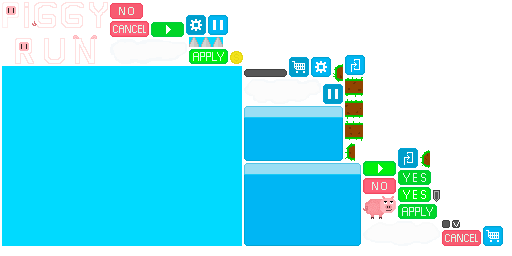
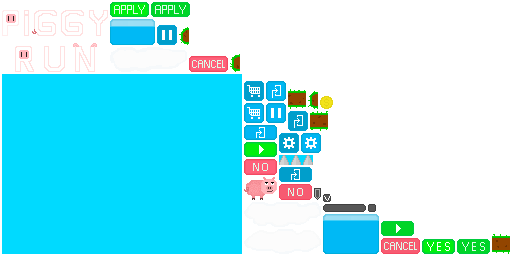
I added pause

Changed region(s): [[0.0, 0.0, 1.0, 1.0]]

diff --git a/core/src/com/libgdx/piggyrun/states/GameState.java b/core/src/com/libgdx/piggyrun/states/GameState.java
@@ -1,6 +1,8 @@
 package com.libgdx.piggyrun.states;
 
-import com.badlogic.gdx.Gdx;
+import
+        com.badlogic.gdx.Gdx;
+import com.badlogic.gdx.Input;
 import com.badlogic.gdx.InputMultiplexer;
 import com.badlogic.gdx.InputProcessor;
 import com.badlogic.gdx.graphics.GL20;
@@ -17,6 +19,7 @@ import com.badlogic.gdx.scenes.scene2d.ui.Button;
 import com.badlogic.gdx.scenes.scene2d.ui.Skin;
 import com.badlogic.gdx.scenes.scene2d.ui.Window;
 import com.badlogic.gdx.scenes.scene2d.utils.ChangeListener;
+import com.badlogic.gdx.utils.Align;
 import com.badlogic.gdx.utils.viewport.FillViewport;
 import com.libgdx.piggyrun.PiggyRunMain;
 import com.libgdx.piggyrun.objects.*;
@@ -55,7 +58,8 @@ public class GameState extends State implements InputProcessor {
         stage = new Stage(new FillViewport(Constants.V_WIDTH, Constants.V_HEIGHT,camera),batch);
         stageGUI = new Stage(new FillViewport(Constants.GAME_GUI_WIDTH,Constants.GAME_GUI_HEIGHT),batch);
         Gdx.input.setInputProcessor(new InputMultiplexer(stageGUI,this));
-        skin = new Skin(Gdx.files.internal(Constants.GAME_UISKIN_JSON),new TextureAtlas(Constants.TEXTURE_ATLAS));
+        Gdx.input.setCatchBackKey(true);
+        skin = new Skin(Gdx.files.internal(Constants.UISKIN_JSON),new TextureAtlas(Constants.TEXTURE_ATLAS));
         isFirst = true;
         meters = 0;
         coins = 0;
@@ -75,19 +79,46 @@ public class GameState extends State implements InputProcessor {
         rb2 = new Rectangle();
         viewportUp = 0;
         isTouched = false;
-        buildHudStage();
+        buildGUIStage();
     }
 
-    private void buildHudStage() {
+    private void buildGUIStage() {
         buttonPause = new Button(skin,"pause");
         buttonPause.setSize(23,23);
         buttonPause.addListener(new ChangeListener() {
             @Override
             public void changed(ChangeEvent event, Actor actor) {
                 pause();
+                pauseWindow.setVisible(true);
             }
         });
+        skin.getFont("default-font").getData().setScale(0.6f);
+        pauseWindow = new Window("Paused",skin);
+        pauseWindow.getTitleLabel().setAlignment(Align.center,Align.center);
+        pauseWindow.padTop(23f);
+        Button exitGame = new Button(skin,"exitGame");
+        exitGame.addListener(new ChangeListener() {
+            @Override
+            public void changed(ChangeEvent event, Actor actor) {
+                game.setScreen(new MenuState(game));
+            }
+        });
+        Button resume = new Button(skin,"play");
+        resume.addListener(new ChangeListener() {
+            @Override
+            public void changed(ChangeEvent event, Actor actor) {
+                pauseWindow.setVisible(false);
+                resume();
+            }
+        });
+        pauseWindow.add(exitGame).size(49.5f,22.5f).pad(5,13,13,6.5f);
+        pauseWindow.add(resume).size(49.5f,22.5f).pad(5,6.5f,13,13);
+        pauseWindow.pack();
+        pauseWindow.setMovable(false);
+        pauseWindow.setModal(true);
+        pauseWindow.setVisible(false);
         stageGUI.addActor(buttonPause);
+        stageGUI.addActor(pauseWindow);
     }
 
     private void checkCollisions(){
@@ -164,6 +195,15 @@ public class GameState extends State implements InputProcessor {
             }
         }else if(isTouched && pig.jumpingTime == 0 && pig.onCollisionWithGround)
             AudioManager.instance.play(Assets.getInstance().soundAsset.jump,0.8f);
+        if(Gdx.input.isKeyJustPressed(Input.Keys.BACK)) {
+            if(!pauseWindow.isVisible()) {
+                pauseWindow.setVisible(true);
+                pause();
+            }else {
+                pauseWindow.setVisible(false);
+                resume();
+            }
+        }
     }
 
     @Override
@@ -179,9 +219,7 @@ public class GameState extends State implements InputProcessor {
     }
 
     public void update(float deltaTime) {
-        handleInputDebug();
         stage.act();
-        stageGUI.act();
         clouds.act(deltaTime);
         groundManager.act(deltaTime);
         pig.onCollisionWithGround = false;
@@ -210,8 +248,10 @@ public class GameState extends State implements InputProcessor {
 
     @Override
     public void render(float delta) {
+        handleInputDebug();
         if(!isPaused)
         update(delta);
+        stageGUI.act();
         Gdx.gl.glClearColor(0f,0.853f,1f,1f);
         Gdx.gl.glClear(GL20.GL_COLOR_BUFFER_BIT);
         stage.getViewport().apply();
@@ -231,6 +271,19 @@ public class GameState extends State implements InputProcessor {
         float viewportHeight = ((float) height / width) * Constants.GAME_GUI_WIDTH;
         viewportUp = (Constants.GAME_GUI_HEIGHT - viewportHeight) / 2 + viewportHeight;
         buttonPause.setPosition(270,viewportUp - 30);
+        pauseWindow.setPosition(150 - pauseWindow.getWidth() / 2,150 - pauseWindow.getHeight() / 2);
+    }
+
+    @Override
+    public void pause() {
+        super.pause();
+        pauseWindow.setVisible(true);
+    }
+
+    @Override
+    public void resume() {
+        if(!pauseWindow.isVisible())
+        super.resume();
     }
 
     @Override

diff --git a/core/src/com/libgdx/piggyrun/states/MenuState.java b/core/src/com/libgdx/piggyrun/states/MenuState.java
@@ -98,7 +98,7 @@ public class MenuState extends State {
         exitWindow = new Window("Exit Piggy Run?",skin);
         exitWindow.setSize(99,55);
         exitWindow.setPosition(Constants.GUI_WIDTH / 2 - exitWindow.getWidth() / 2, Constants.GUI_HEIGHT / 2 - exitWindow.getHeight() / 2);
-        exitWindow.padTop(11f);
+        exitWindow.padTop(18f);
         exitWindow.getTitleLabel().setAlignment(Align.center,Align.center);
         exitWindow.setMovable(false);
         Label text = new Label("Do you want to exit Piggy Run?", skin, "small-font", "white");
@@ -133,13 +133,13 @@ public class MenuState extends State {
 
     private Table buildOptWindow(){
         skin.getFont("default-font").getData().setScale(0.33f);
-        optWindow = new Window("Options",skin,"options");
-        optWindow.padTop(11f);
+        optWindow = new Window("Options",skin, "options");
+        optWindow.padTop(17f);
         optWindow.getTitleLabel().setAlignment(Align.center,Align.center);
         optWindow.setMovable(false);
         optWindow.setModal(true);
         Table table = new Table();
-        table.pad(10,5,3,5);
+        table.pad(5,5,3,5);
         table.row().padBottom(3);
         table.columnDefaults(0).padRight(5);
         table.columnDefaults(1).padRight(5);
@@ -159,7 +159,7 @@ public class MenuState extends State {
         table.add(checkNotifications);
         table.add(new Label("Push-Notifications",skin)).colspan(2);
         optWindow.add(table).row();
-        optWindow.add(buildOptButtons()).padBottom(5);
+        optWindow.add(buildOptButtons()).padBottom(9);
         optWindow.pack();
         optWindow.setPosition(Constants.GUI_WIDTH / 2 - optWindow.getWidth() / 2, Constants.GUI_HEIGHT / 2 - optWindow.getHeight() / 2);
         optWindow.setVisible(false);

diff --git a/core/src/com/libgdx/piggyrun/utils/Constants.java b/core/src/com/libgdx/piggyrun/utils/Constants.java
@@ -11,7 +11,6 @@ public class Constants {
     public final static float GAME_GUI_HEIGHT = 300;
     public final static String TEXTURE_ATLAS = "piggy-run.atlas";
     public final static String UISKIN_JSON = "uiskin.json";
-    public final static String GAME_UISKIN_JSON = "gameuiskin.json";
     public final static Vector2 DEFAULT_VELOCITY = new Vector2(-25f, 0);
     public final static int GROUND_WITH_COINS = 1;
     public final static int GROUND_WITH_SPIKES = 2;
